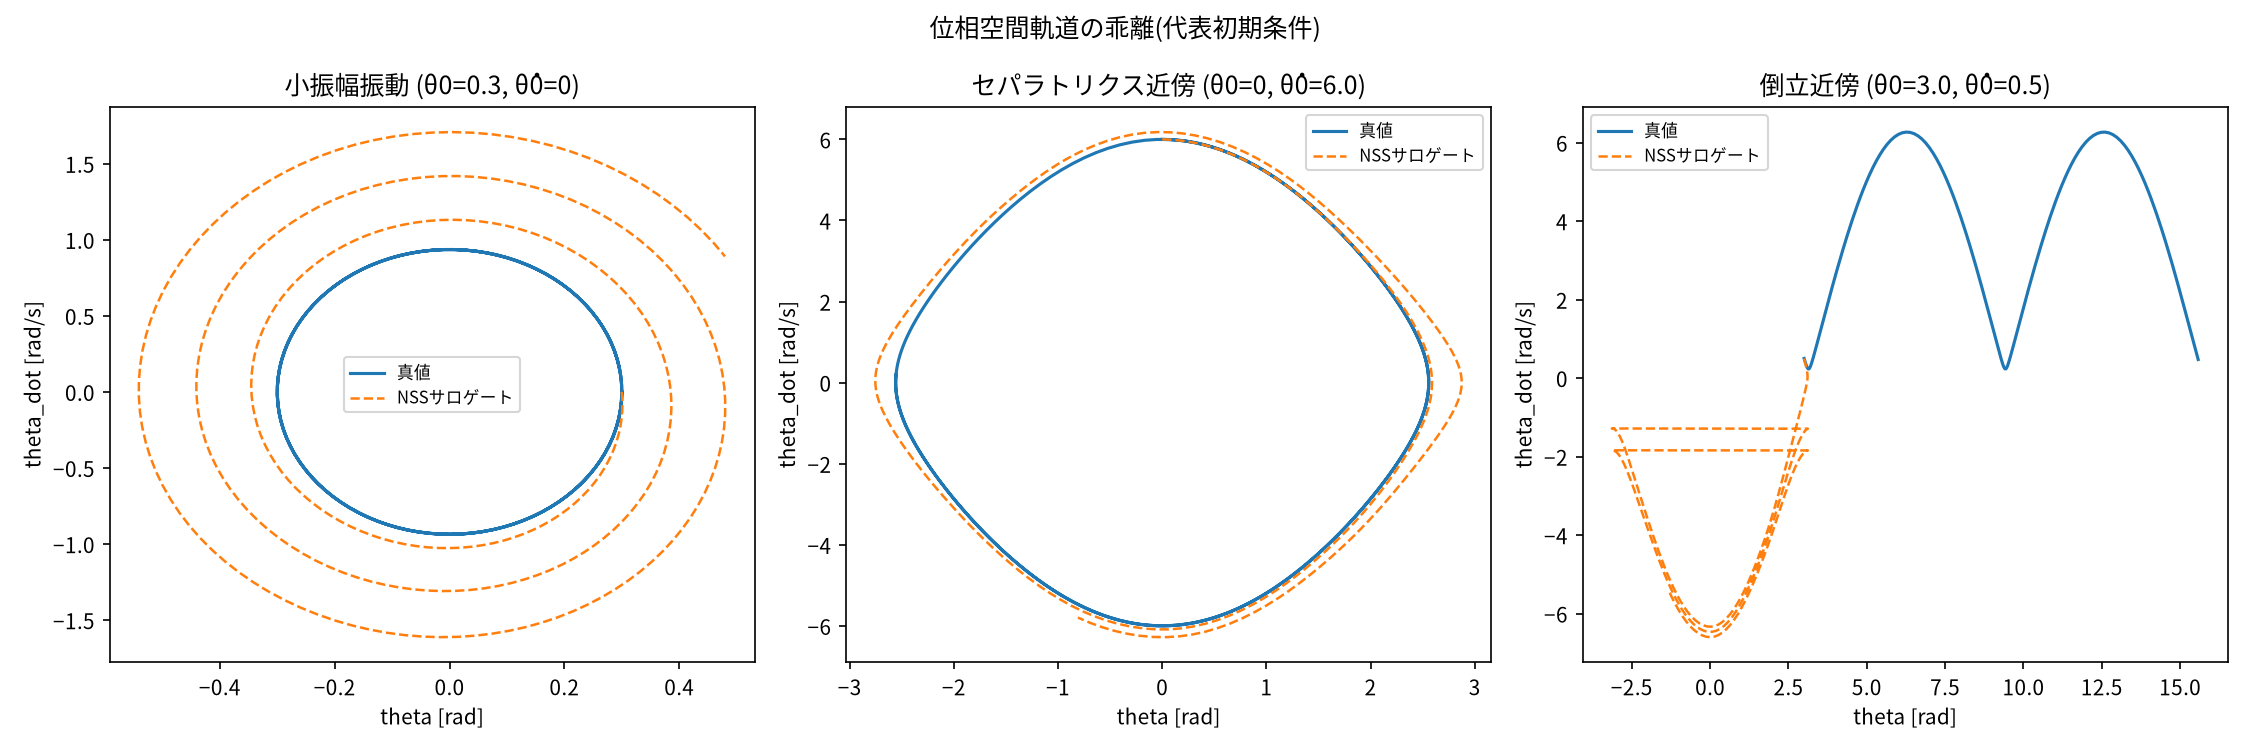
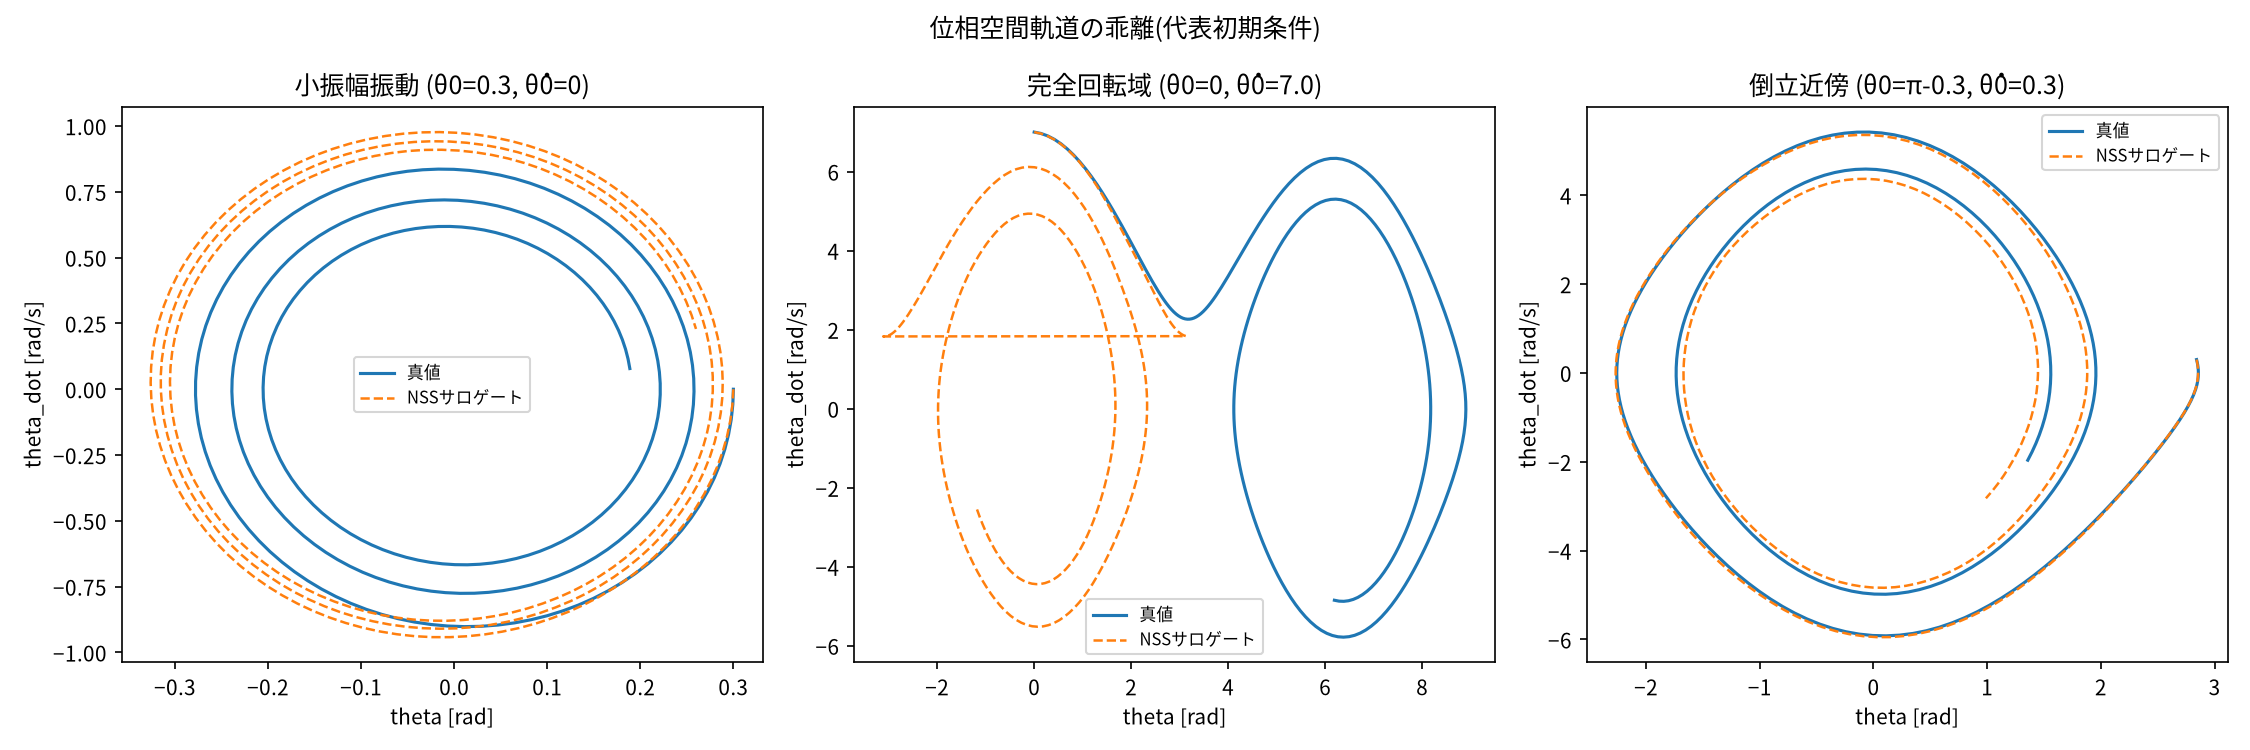
M2: 減衰項の追加と初期条件分布の拡張(倒立・完全回転域) (#4)
physics.py に減衰係数cを追加(c=0でM1と後方互換)。dataset.py の
IC分布を3層(normal/rotation/inverted)に層化し、完全回転域・倒立近傍の
過小表現を解消。減衰込みで再学習し、3指標を再評価。

Refs #3

Claude-Session: https://claude.ai/code/session_01Rvrf6mcbh1UrexApn66z2b

diff --git a/src/dataset.py b/src/dataset.py
@@ -1,29 +1,81 @@
-"""学習・評価用の軌道データセット生成。
+"""学習・評価用の軌道データセット生成(c=減衰係数を指定可能)。
 
-初期条件は theta in [-pi, pi] (倒立近傍含む), theta_dot を広めのレンジでサンプリングする。
+M1では一様サンプリングのみだったが、倒立近傍・完全回転域(セパラトリクス超え)が
+著しく過小表現され、NSSサロゲートがその領域で正しくロールアウトできないことが
+判明した(Issue #1)。M2では3層のIC分布からサンプリングする:
+
+- normal:    通常域。theta, theta_dot を一様にサンプリング(M1と同じ)。
+- rotation:  完全回転域。theta によらずセパラトリクスエネルギーを確実に超える
+             |theta_dot| を与える。
+- inverted:  倒立近傍。theta ~= pi、theta_dot は小さい。
 """
 import numpy as np
 
-from src.physics import simulate
+from src.physics import G, L, simulate
 
 THETA_RANGE = (-np.pi, np.pi)
 THETA_DOT_RANGE = (-6.0, 6.0)
 
+# theta=0 で完全回転に必要な最小 |theta_dot| = sqrt(4*g/L)(セパラトリクスエネルギー)。
+# これを超えれば theta によらず完全回転になる。
+ROTATION_THRESHOLD = np.sqrt(4 * G / L)
+ROTATION_THETA_DOT_RANGE = (ROTATION_THRESHOLD + 0.1, ROTATION_THRESHOLD + 3.0)
 
-def sample_initial_states(n: int, rng: np.random.Generator) -> np.ndarray:
+INVERTED_THETA_HALF_WIDTH = 0.4
+INVERTED_THETA_DOT_RANGE = (-1.0, 1.0)
+
+STRATUM_WEIGHTS = {"normal": 0.5, "rotation": 0.25, "inverted": 0.25}
+
+
+def _sample_normal(n: int, rng: np.random.Generator) -> np.ndarray:
     theta = rng.uniform(*THETA_RANGE, size=n)
     theta_dot = rng.uniform(*THETA_DOT_RANGE, size=n)
     return np.stack([theta, theta_dot], axis=-1)
 
 
+def _sample_rotation(n: int, rng: np.random.Generator) -> np.ndarray:
+    theta = rng.uniform(*THETA_RANGE, size=n)
+    magnitude = rng.uniform(*ROTATION_THETA_DOT_RANGE, size=n)
+    sign = rng.choice([-1.0, 1.0], size=n)
+    theta_dot = sign * magnitude
+    return np.stack([theta, theta_dot], axis=-1)
+
+
+def _sample_inverted(n: int, rng: np.random.Generator) -> np.ndarray:
+    sign = rng.choice([-1.0, 1.0], size=n)
+    theta = sign * np.pi + rng.uniform(
+        -INVERTED_THETA_HALF_WIDTH, INVERTED_THETA_HALF_WIDTH, size=n
+    )
+    theta_dot = rng.uniform(*INVERTED_THETA_DOT_RANGE, size=n)
+    return np.stack([theta, theta_dot], axis=-1)
+
+
+def sample_initial_states(n: int, rng: np.random.Generator) -> np.ndarray:
+    """3層(normal/rotation/inverted)から層化サンプリングする。"""
+    n_rotation = int(round(n * STRATUM_WEIGHTS["rotation"]))
+    n_inverted = int(round(n * STRATUM_WEIGHTS["inverted"]))
+    n_normal = n - n_rotation - n_inverted
+
+    states = np.concatenate(
+        [
+            _sample_normal(n_normal, rng),
+            _sample_rotation(n_rotation, rng),
+            _sample_inverted(n_inverted, rng),
+        ],
+        axis=0,
+    )
+    rng.shuffle(states)
+    return states
+
+
 def generate_trajectories(
-    n_trajectories: int, dt: float, n_steps: int, seed: int
+    n_trajectories: int, dt: float, n_steps: int, seed: int, c: float = 0.0
 ) -> np.ndarray:
     """shape (n_trajectories, n_steps + 1, 2) の軌道データを返す。"""
     rng = np.random.default_rng(seed)
     initial_states = sample_initial_states(n_trajectories, rng)
     trajectories = np.stack(
-        [simulate(s0, dt, n_steps) for s0 in initial_states], axis=0
+        [simulate(s0, dt, n_steps, c=c) for s0 in initial_states], axis=0
     )
     return trajectories
 

diff --git a/src/evaluate.py b/src/evaluate.py
@@ -22,6 +22,7 @@ DT = 0.02
 N_STEPS_EVAL = 300  # 6秒分。学習時ホライズン(50ステップ=1秒)より大幅に長い
 N_TEST_TRAJ = 200
 SEED_TEST = 1000
+DAMPING = 0.15  # train.py と揃える(M2)
 
 MODEL_PATH = "outputs/nss_model.pt"
 OUT_DIR = "outputs"
@@ -38,7 +39,7 @@ def plot_error_curve(model: NSSModel) -> None:
     rng = np.random.default_rng(SEED_TEST)
     ics = sample_initial_states(N_TEST_TRAJ, rng)
 
-    true_traj = true_rollout(ics, DT, N_STEPS_EVAL)  # (n_traj, n_steps+1, 2)
+    true_traj = true_rollout(ics, DT, N_STEPS_EVAL, c=DAMPING)  # (n_traj, n_steps+1, 2)
     pred_traj = model.rollout(ics, N_STEPS_EVAL)  # (n_steps+1, n_traj, 2)
 
     true_traj_t_first = np.transpose(true_traj, (1, 0, 2))
@@ -63,7 +64,7 @@ def plot_energy_deviation(model: NSSModel) -> None:
     rng = np.random.default_rng(SEED_TEST)
     ics = sample_initial_states(N_TEST_TRAJ, rng)
 
-    true_traj = true_rollout(ics, DT, N_STEPS_EVAL)
+    true_traj = true_rollout(ics, DT, N_STEPS_EVAL, c=DAMPING)
     pred_traj = model.rollout(ics, N_STEPS_EVAL)
 
     true_traj_t_first = np.transpose(true_traj, (1, 0, 2))
@@ -72,12 +73,12 @@ def plot_energy_deviation(model: NSSModel) -> None:
 
     t = np.arange(N_STEPS_EVAL + 1) * DT
     plt.figure(figsize=(6, 4))
-    plt.plot(t, e_true, label="真値(理論上ほぼ一定)")
+    plt.plot(t, e_true, label="真値(減衰により単調減少するはず)")
     plt.plot(t, e_pred, label="NSSサロゲート")
     plt.axvline(50 * DT, color="gray", linestyle="--", label="学習ホライズン境界")
     plt.xlabel("time [s]")
     plt.ylabel("平均力学的エネルギー [J] (m=1kg換算)")
-    plt.title("エネルギー保存逸脱 (無減衰系での物理的整合性)")
+    plt.title(f"エネルギー逸脱 (減衰系 c={DAMPING}, 真値からのズレ)")
     plt.legend()
     plt.tight_layout()
     plt.savefig(f"{OUT_DIR}/energy_deviation.png", dpi=150)
@@ -88,13 +89,13 @@ def plot_energy_deviation(model: NSSModel) -> None:
 def plot_phase_portrait(model: NSSModel) -> None:
     representative_ics = {
         "小振幅振動 (θ0=0.3, θ̇0=0)": np.array([0.3, 0.0]),
-        "セパラトリクス近傍 (θ0=0, θ̇0=6.0)": np.array([0.0, 6.0]),
-        "倒立近傍 (θ0=3.0, θ̇0=0.5)": np.array([3.0, 0.5]),
+        "完全回転域 (θ0=0, θ̇0=7.0)": np.array([0.0, 7.0]),
+        "倒立近傍 (θ0=π-0.3, θ̇0=0.3)": np.array([np.pi - 0.3, 0.3]),
     }
 
     fig, axes = plt.subplots(1, 3, figsize=(15, 5))
     for ax, (label, ic) in zip(axes, representative_ics.items()):
-        true_traj = true_rollout(ic[None, :], DT, N_STEPS_EVAL)[0]
+        true_traj = true_rollout(ic[None, :], DT, N_STEPS_EVAL, c=DAMPING)[0]
         pred_traj = model.rollout(ic[None, :], N_STEPS_EVAL)[:, 0, :]
 
         ax.plot(true_traj[:, 0], true_traj[:, 1], label="真値", linewidth=1.5)

diff --git a/src/physics.py b/src/physics.py
@@ -1,31 +1,34 @@
-"""単振り子(無減衰・無入力)の真値シミュレータ。
+"""振り子(減衰・無入力)の真値シミュレータ。
 
 状態は x = [theta, theta_dot]。運動方程式:
-    theta_ddot = -(g / L) * sin(theta)
+    theta_ddot = -(g / L) * sin(theta) - c * theta_dot
+
+c=0 (デフォルト) で無減衰の単振り子に一致する。
 """
 import numpy as np
 
 G = 9.81
 L = 1.0
+C = 0.0  # デフォルトは無減衰(M1と後方互換)
 
 
-def dynamics(state: np.ndarray) -> np.ndarray:
+def dynamics(state: np.ndarray, c: float = C) -> np.ndarray:
     """状態の時間微分 dx/dt を返す。state: shape (..., 2)."""
     theta, theta_dot = state[..., 0], state[..., 1]
-    theta_ddot = -(G / L) * np.sin(theta)
+    theta_ddot = -(G / L) * np.sin(theta) - c * theta_dot
     return np.stack([theta_dot, theta_ddot], axis=-1)
 
 
-def rk4_step(state: np.ndarray, dt: float) -> np.ndarray:
+def rk4_step(state: np.ndarray, dt: float, c: float = C) -> np.ndarray:
     """RK4で1ステップ積分する。"""
-    k1 = dynamics(state)
-    k2 = dynamics(state + 0.5 * dt * k1)
-    k3 = dynamics(state + 0.5 * dt * k2)
-    k4 = dynamics(state + dt * k3)
+    k1 = dynamics(state, c)
+    k2 = dynamics(state + 0.5 * dt * k1, c)
+    k3 = dynamics(state + 0.5 * dt * k2, c)
+    k4 = dynamics(state + dt * k3, c)
     return state + (dt / 6.0) * (k1 + 2 * k2 + 2 * k3 + k4)
 
 
-def simulate(initial_state: np.ndarray, dt: float, n_steps: int) -> np.ndarray:
+def simulate(initial_state: np.ndarray, dt: float, n_steps: int, c: float = C) -> np.ndarray:
     """初期状態から n_steps + 1 点の軌道を生成する。
 
     Returns: shape (n_steps + 1, ..., 2)
@@ -33,7 +36,7 @@ def simulate(initial_state: np.ndarray, dt: float, n_steps: int) -> np.ndarray:
     traj = [initial_state]
     state = initial_state
     for _ in range(n_steps):
-        state = rk4_step(state, dt)
+        state = rk4_step(state, dt, c)
         traj.append(state)
     return np.stack(traj, axis=0)
 

diff --git a/src/train.py b/src/train.py
@@ -8,17 +8,22 @@ from src.model import NSSModel, encode_state
 
 DT = 0.02
 N_STEPS_PER_TRAJ = 50
-N_TRAIN_TRAJ = 400
-N_VAL_TRAJ = 50
+N_TRAIN_TRAJ = 600
+N_VAL_TRAJ = 80
 SEED = 0
 N_EPOCHS = 200
 BATCH_SIZE = 512
 LR = 1e-3
+DAMPING = 0.15  # M2: 減衰項を追加(M1は0.0)
 
 
 def train(device: str = "cpu") -> NSSModel:
-    train_traj = generate_trajectories(N_TRAIN_TRAJ, DT, N_STEPS_PER_TRAJ, seed=SEED)
-    val_traj = generate_trajectories(N_VAL_TRAJ, DT, N_STEPS_PER_TRAJ, seed=SEED + 1)
+    train_traj = generate_trajectories(
+        N_TRAIN_TRAJ, DT, N_STEPS_PER_TRAJ, seed=SEED, c=DAMPING
+    )
+    val_traj = generate_trajectories(
+        N_VAL_TRAJ, DT, N_STEPS_PER_TRAJ, seed=SEED + 1, c=DAMPING
+    )
 
     x_train, x_next_train = make_transition_pairs(train_traj)
     x_val, x_next_val = make_transition_pairs(val_traj)

diff --git a/tests/test_physics.py b/tests/test_physics.py
@@ -2,6 +2,8 @@ import numpy as np
 
 from src.physics import energy, simulate
 
+C_DAMPED = 0.2
+
 
 def test_energy_conservation_undamped():
     """無減衰系ではRK4積分中のエネルギー変動が十分小さいこと。"""
@@ -22,3 +24,15 @@ def test_stable_equilibrium_is_fixed_point():
     initial_state = np.array([0.0, 0.0])
     traj = simulate(initial_state, dt=0.01, n_steps=100)
     assert np.allclose(traj, 0.0)
+
+
+def test_energy_monotonically_decreases_when_damped():
+    """減衰系(c>0)ではエネルギーが単調に(非増加に)減少すること。"""
+    initial_state = np.array([2.0, 1.0])
+    dt = 0.01
+    n_steps = 2000
+    traj = simulate(initial_state, dt, n_steps, c=C_DAMPED)
+
+    e = energy(traj)
+    assert np.all(np.diff(e) <= 1e-9)
+    assert e[-1] < e[0]

diff --git a/src/rollout.py b/src/rollout.py
@@ -4,9 +4,13 @@ import numpy as np
 from src.physics import energy, simulate
 
 
-def true_rollout(initial_states: np.ndarray, dt: float, n_steps: int) -> np.ndarray:
+def true_rollout(
+    initial_states: np.ndarray, dt: float, n_steps: int, c: float = 0.0
+) -> np.ndarray:
     """shape (n_traj, n_steps+1, 2)"""
-    return np.stack([simulate(s0, dt, n_steps) for s0 in initial_states], axis=0)
+    return np.stack(
+        [simulate(s0, dt, n_steps, c=c) for s0 in initial_states], axis=0
+    )
 
 
 def rmse_curve(true_traj: np.ndarray, pred_traj: np.ndarray) -> np.ndarray:
